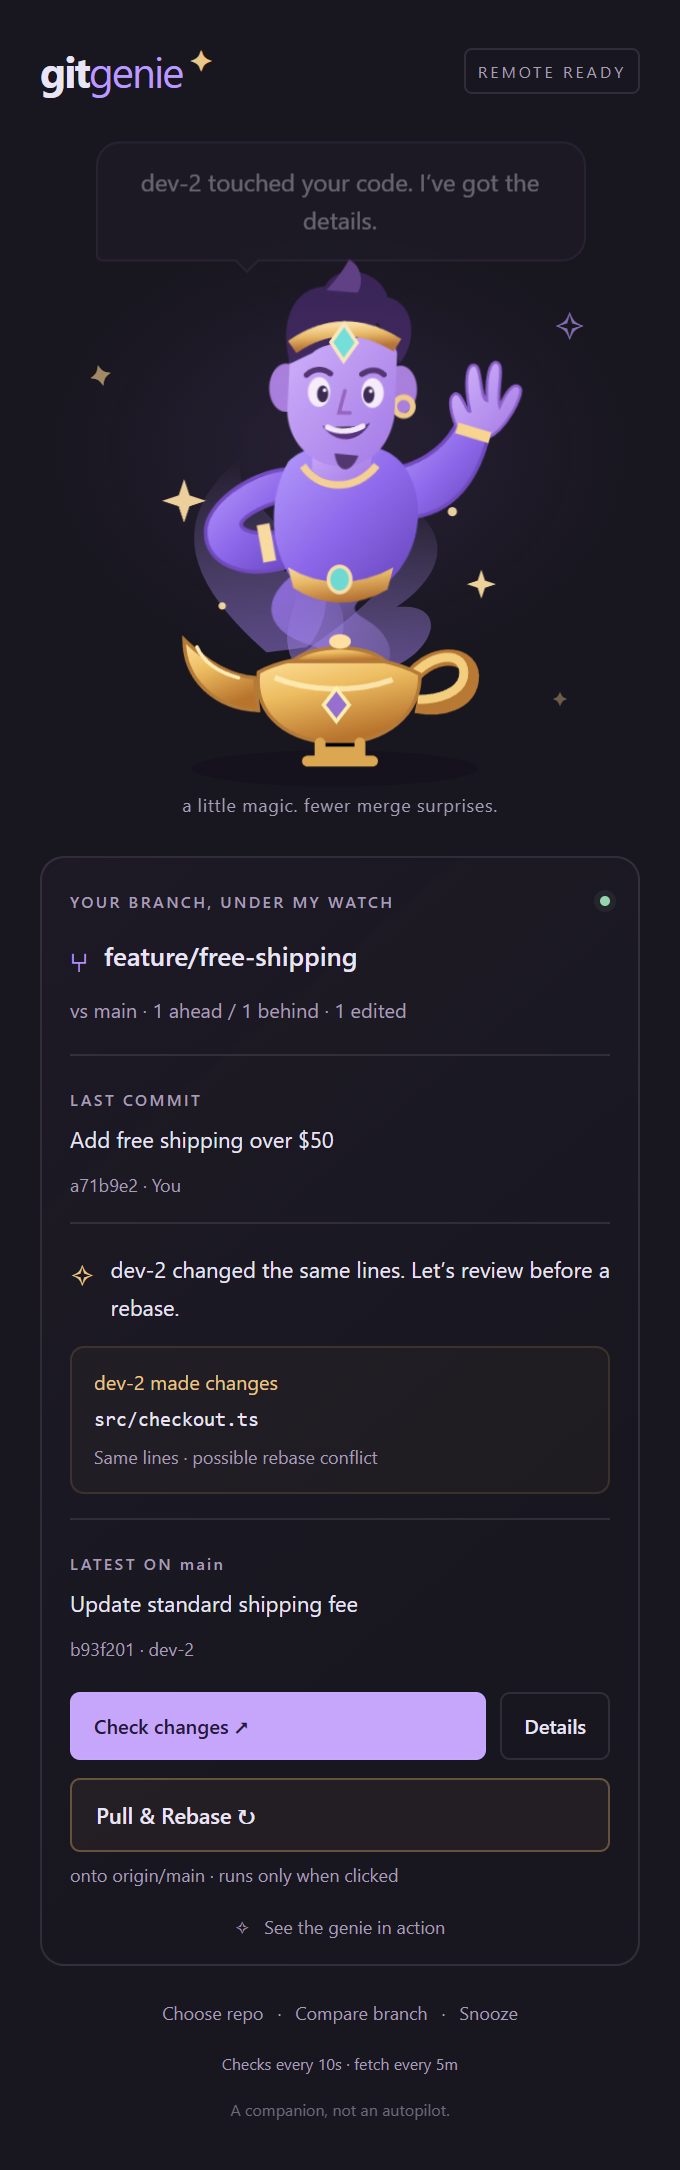
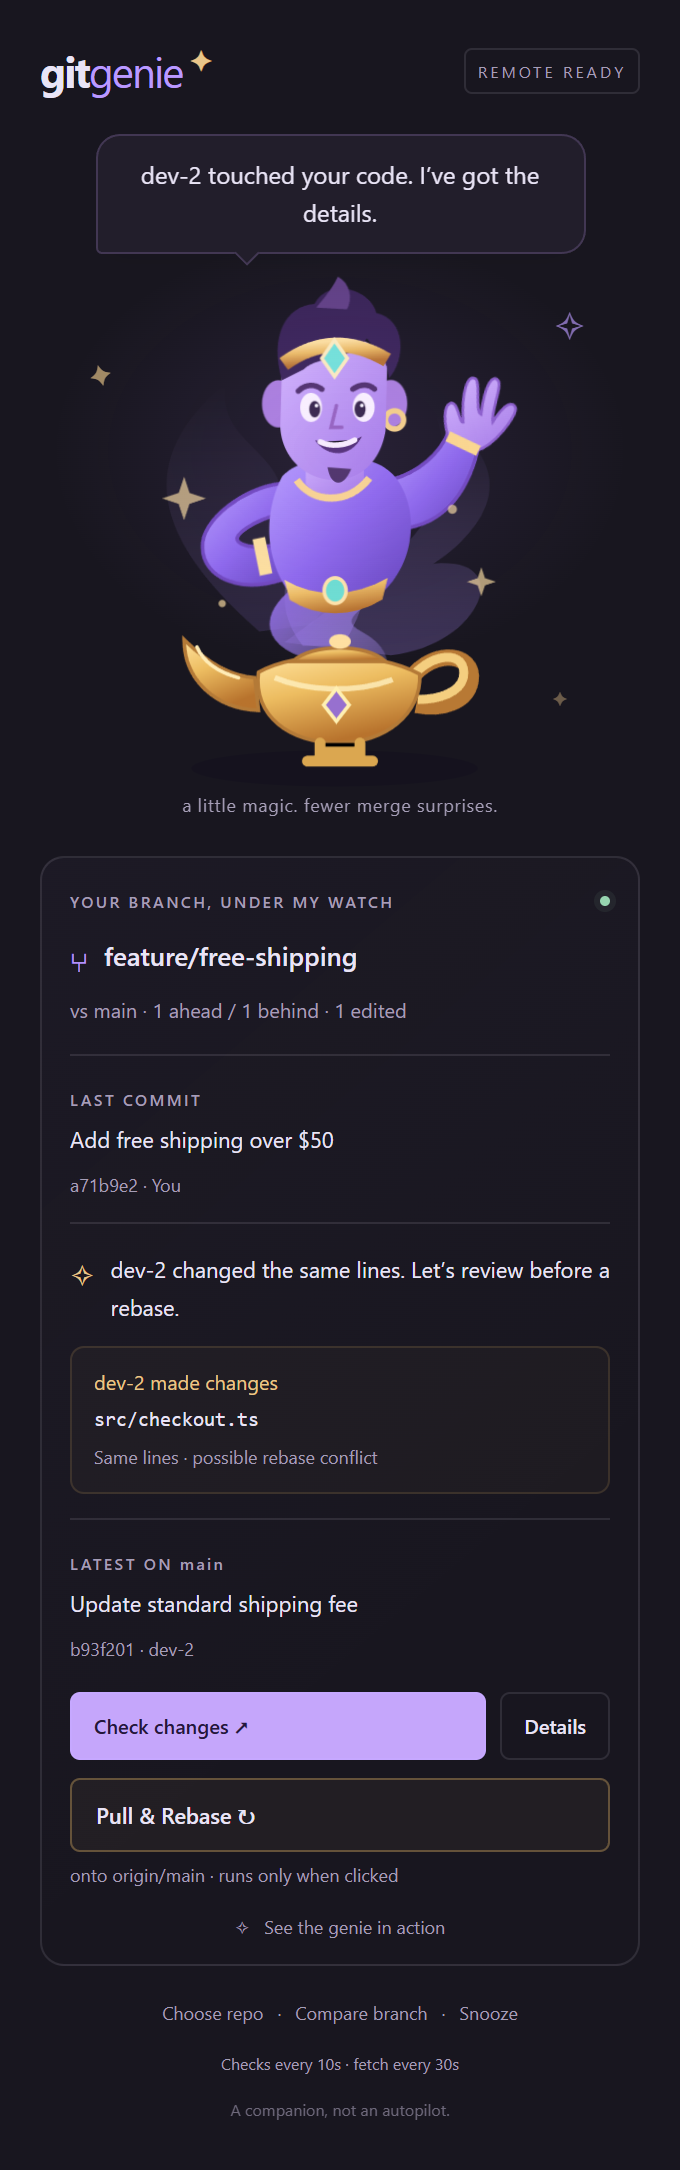
Fetch remote updates every 30 seconds

Changed region(s): [[0.2162, 0.0618, 0.8029, 0.3088], [0.8338, 0.0618, 0.8647, 0.0926], [0.6485, 0.9263, 0.6794, 0.9571]]

diff --git a/vscode-extension/test/host.js b/vscode-extension/test/host.js
@@ -6,8 +6,8 @@ const fs = require('node:fs/promises');
 const path = require('node:path');
 const { Git } = require('../src/git');
 
-async function until(check, label) {
-  const end = Date.now() + 30000;
+async function until(check, label, timeout = 30000) {
+  const end = Date.now() + timeout;
   while (Date.now() < end) {
     const result = check();
     if (result) return result;
@@ -35,6 +35,11 @@ async function run() {
   assert.deepEqual(state.snapshot.overlaps[0].authors, ['dev-2']);
   assert.equal(state.sync.target, 'origin/main');
   assert.equal(state.fetchInfo.enabled, true);
+  const firstFetch = state.fetchInfo.lastFetch;
+  assert.ok(firstFetch, 'Startup fetch must complete');
+  await until(() => api.getState().fetchInfo.lastFetch !== firstFetch,
+    'a second automatic fetch on the 30-second cadence', 45000);
+  console.log('30-second background fetch verified against a real local remote.');
   const repo = state.snapshot.root;
   const git = new Git(repo);
   const originalHead = (await git.run(['rev-parse', 'HEAD'])).trim();

diff --git a/vscode-extension/media/view.js b/vscode-extension/media/view.js
@@ -82,7 +82,7 @@ function render(state) {
   for (const id of ['refresh', 'repository', 'base', 'demo']) byId(id).disabled = Boolean(sync.busy);
   text('snooze', state.snoozed ? 'Resume' : 'Snooze');
   byId('snooze').onclick = () => send(state.snoozed ? 'resume' : 'snooze');
-  text('watch-status', demo ? 'Sample data · your repository is unchanged' : state.snoozed ? 'Alerts paused for 15m · checks continue' : state.fetchInfo?.enabled ? 'Checks every 10s · fetch every 5m' : 'Checks every 10s · automatic fetch off');
+  text('watch-status', demo ? 'Sample data · your repository is unchanged' : state.snoozed ? 'Alerts paused for 15m · checks continue' : state.fetchInfo?.enabled ? 'Checks every 10s · fetch every 30s' : 'Checks every 10s · automatic fetch off');
   if (state.fetchInfo?.error && !demo && !sync.message) {
     text('sync-message', state.fetchInfo.error);
     byId('sync-message').hidden = false;

diff --git a/vscode-extension/test/webview.test.js b/vscode-extension/test/webview.test.js
@@ -55,8 +55,10 @@ async function main() {
     await page.evaluate(state => window.postMessage(state, '*'), live);
     await page.locator('#sync').click();
     assert.ok(await page.evaluate(() => window.__messages.some(m => m.type === 'sync')));
+    assert.match(await page.locator('#watch-status').innerText(), /fetch every 30s/);
     assert.match(await page.locator('#sync-target').innerText(), /origin\/main/);
     await page.evaluate(state => window.postMessage(state, '*'), { ...live, sync: { ...live.sync, busy: true } });
+    await page.waitForFunction(() => document.getElementById('sync').disabled);
     assert.equal(await page.locator('#sync').isDisabled(), true);
     await page.evaluate(state => window.postMessage(state, '*'), { ...live, sync: { ...live.sync, paused: true, message: 'Resolve and stage the conflicts.' } });
     await page.locator('#continueRebase').click();

diff --git a/vscode-extension/src/extension.js b/vscode-extension/src/extension.js
@@ -9,7 +9,7 @@ const { syncPlan, pullAndRebase, resumeRebase, operationState, fetchRemote } = r
 
 const VIEW = 'gitgenie.companion';
 const SCAN_MS = 10000;
-const FETCH_MS = 300000;
+const FETCH_MS = 30000;
 
 class Companion {
   constructor(context) {

diff --git a/README.md b/README.md
@@ -21,7 +21,7 @@ Click the lamp for the animation, or let a new overlap summon your genie automat
 
 ## Why is this useful to me?
 
-You should not need to repeatedly pull main just to discover whether a teammate touched the code you are editing. Genie fetches remote updates on startup and every **five minutes**, then checks your branch every **10 seconds** and shortly after saves. Fetching updates your view of the remote without changing your local branch or working files.
+You should not need to repeatedly pull main just to discover whether a teammate touched the code you are editing. Genie fetches remote updates on startup and every **30 seconds**, then checks your branch every **10 seconds** and shortly after saves. Fetching updates your view of the remote without changing your local branch or working files.
 
 For example, you add free shipping while dev-2 changes the shipping fee. Genie points out that both changes touch the same calculation before you try to integrate them. When you are ready, click **Pull & Rebase** instead of manually pulling the base branch and rebasing your feature branch.
 
@@ -31,7 +31,7 @@ It helps you stay aware, choose when to sync, and understand which files need at
 
 You need **VS Code 1.85+** and **Git 2.38+**. Existing Git authentication must work for remote fetches. This is a VSIX installation; the extension is not published on the Marketplace yet.
 
-1. Download [`git-genie-0.3.0.vsix`](artifacts/git-genie-0.3.0.vsix). On GitHub, use the file's **Download raw file** control.
+1. Download [`git-genie-0.3.1.vsix`](artifacts/git-genie-0.3.1.vsix). On GitHub, use the file's **Download raw file** control.
 2. Open VS Code and press **Ctrl+Shift+P** (or **Cmd+Shift+P** on macOS).
 3. Run **Extensions: Install from VSIX…** and select the downloaded file.
 4. If VS Code asks, run **Developer: Reload Window**.
@@ -40,7 +40,7 @@ You need **VS Code 1.85+** and **Git 2.38+**. Existing Git authentication must w
 From a local checkout, you can also double-click `Install-Extension.cmd` on Windows or run:
 
 ```powershell
-code --install-extension ./artifacts/git-genie-0.3.0.vsix
+code --install-extension ./artifacts/git-genie-0.3.1.vsix
 ```
 
 The companion opens on its first activation. You can summon it any time with **Git Genie: Rub the Lamp** from the Command Palette or **Genie** in the status bar. To put it on the right, right-click **Your Genie** and move the view to the **Secondary Side Bar**.
@@ -87,7 +87,7 @@ Rebasing can change local commit IDs. Genie does not push, force-push, auto-reso
 | --- | --- | --- |
 | `gitgenie.baseBranch` | Automatic | Prefer the configured remote's main/master, then local main/master |
 | `gitgenie.remote` | `origin` | Remote used for background fetching and branches without a remote upstream |
-| `gitgenie.autoFetch` | `true` | Fetch on startup and every five minutes; disable for offline use |
+| `gitgenie.autoFetch` | `true` | Fetch on startup and every 30 seconds; disable for offline use |
 | `gitgenie.autoReveal` | `true` | Reveal the genie when a new overlap appears |
 | `gitgenie.animations` | `true` | Animate the lamp, smoke, and genie; system reduced-motion preferences also apply |
 
@@ -115,7 +115,7 @@ npm test
 npm run package
 ```
 
-The package is written to `artifacts/git-genie-0.3.0.vsix` in the repository root. Runtime code uses only VS Code and Node built-ins; npm dependencies are development tools. Open the root project and launch **Git Genie Extension** from Run and Debug for an Extension Development Host.
+The package is written to `artifacts/git-genie-0.3.1.vsix` in the repository root. Runtime code uses only VS Code and Node built-ins; npm dependencies are development tools. Open the root project and launch **Git Genie Extension** from Run and Debug for an Extension Development Host.
 
 Additional checks are available with `npm run test:webview` and `npm run test:host`. The UI harnesses currently use locally installed Chrome and VS Code on Windows. Git integration tests use disposable repositories and local bare remotes, including successful sync, dirty-tree rejection, conflict continuation/abort, and failed fetches.
 

diff --git a/vscode-extension/README.md b/vscode-extension/README.md
@@ -6,7 +6,7 @@ Git Genie is an animated Git companion inside VS Code. Rub the golden lamp: it b
 
 ## Why use it?
 
-You should not need to repeatedly pull main to discover whether someone touched your code. Genie fetches your configured remote on startup and every five minutes and checks your branch every 10 seconds and shortly after saves. Fetching updates remote tracking refs without changing your local branches.
+You should not need to repeatedly pull main to discover whether someone touched your code. Genie fetches your configured remote on startup and every 30 seconds and checks your branch every 10 seconds and shortly after saves. Fetching updates remote tracking refs without changing your local branches.
 
 Review the overlap and click **Pull & Rebase** when ready. Genie fetches the selected remote base, usually `origin/main`, and rebases your current branch onto it. You do not have to check out or pull local main first.
 
@@ -16,7 +16,7 @@ Requires VS Code 1.85+ and Git 2.38+. No Python, AI service, or account is requi
 
 1. Download the VSIX from the [Git Genie repository](https://github.com/sumanthdonthula/GitGenie).
 2. Open the Command Palette and run **Extensions: Install from VSIX…**.
-3. Select `git-genie-0.3.0.vsix` and reload the window if prompted.
+3. Select `git-genie-0.3.1.vsix` and reload the window if prompted.
 4. Open a Git project and click the **lamp** in the Activity Bar.
 
 The companion opens on first activation. Summon it later with **Git Genie: Rub the Lamp**, or **Genie** in the status bar. Move **Your Genie** to the **Secondary Side Bar** if you prefer it on the right. The Activity Bar icon is static; the lamp/smoke animation runs inside the side panel.
@@ -41,7 +41,7 @@ If conflicts occur, resolve and stage the files in Source Control, then click **
 
 - `gitgenie.baseBranch`: comparison base; automatically prefers remote main/master, then local main/master.
 - `gitgenie.remote`: remote for background fetching, defaults to `origin`.
-- `gitgenie.autoFetch`: startup and five-minute fetches, enabled by default. Disable for offline use.
+- `gitgenie.autoFetch`: startup and 30-second fetches, enabled by default. Disable for offline use.
 - `gitgenie.autoReveal`: reveal on new overlaps, enabled by default.
 - `gitgenie.animations`: animation, enabled by default; system reduced-motion preferences also apply.
 
